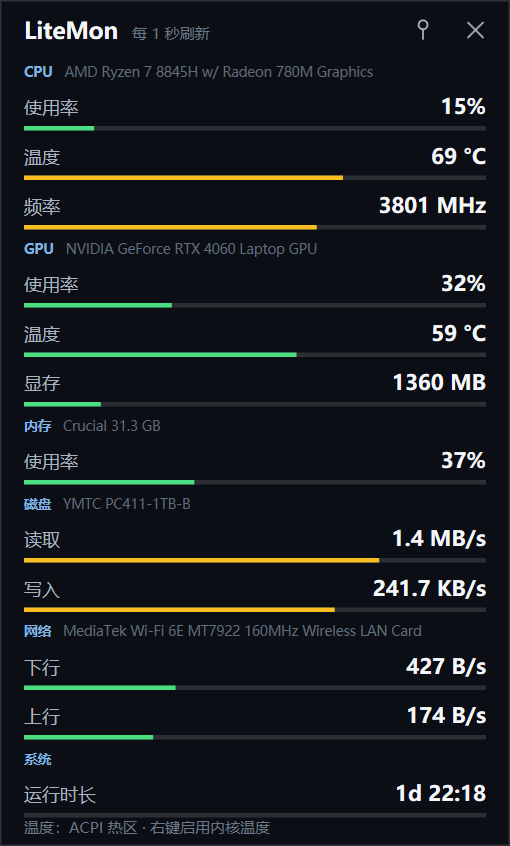
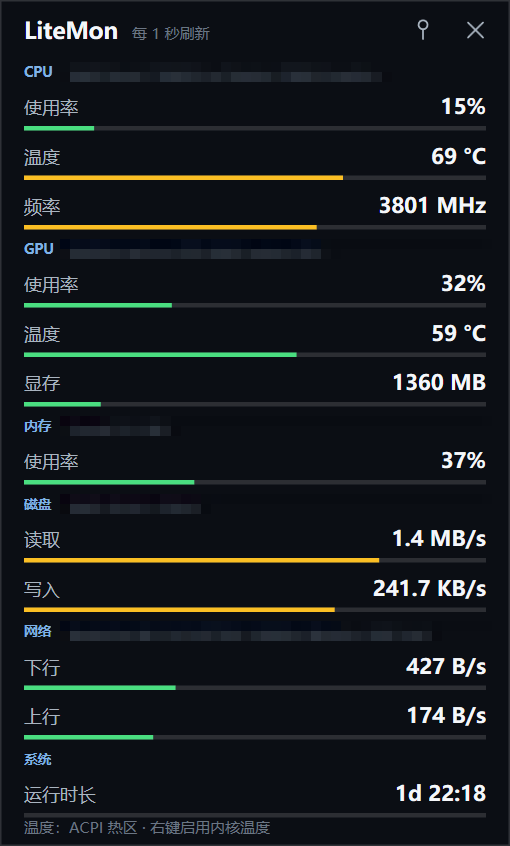
docs: mosaic hardware model names in README screenshots

diff --git a/README.md b/README.md
@@ -33,6 +33,8 @@
 |---|---|
 | ![透明](docs/images/panel-transparent.png) | ![紧凑](docs/images/panel-compact.png) |
 
+> 截图中的硬件型号已打码处理。
+
 ## 环境要求
 
 - Windows 10 1809+ / Windows 11（x64）
